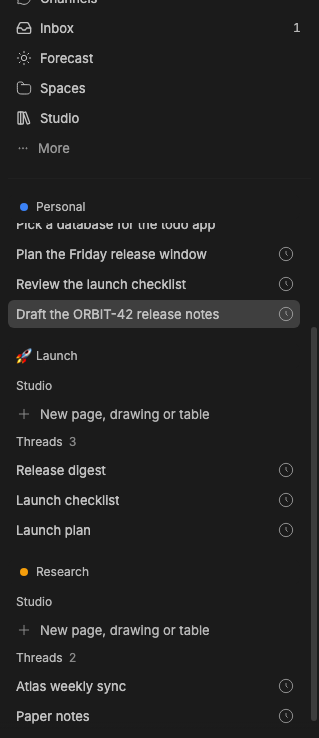
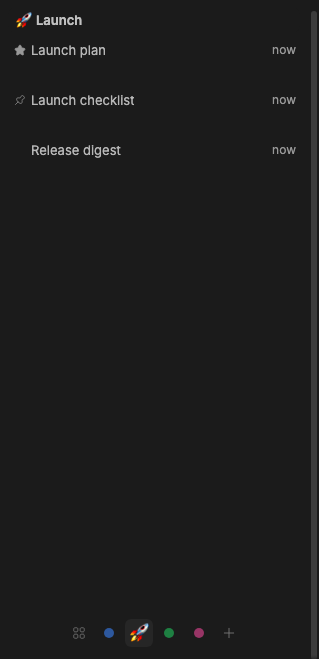
Sidebar captures: show the lead's star and a pin, recaptured
The By space fixture now makes Launch plan the lead and pins Launch
checklist, and checks they come first with their marks under no
headings. It opens Studio rather than a thread, since a thread shows its
own Space. The dialog capture opens New project from the Orbit project's
menu when there's no Threads section. Recaptured from a staged BB.

diff --git a/packages/bb-studio-sidebar/README.md b/packages/bb-studio-sidebar/README.md
@@ -44,8 +44,11 @@ section sits above Threads, and that it has no scroll area of its own.
 
 The By space capture creates two Spaces, Launch (🚀) and Research, and adds
 "Launch plan", "Launch checklist", and "Release digest" to Launch, and "Paper
-notes" and "Atlas weekly sync" to Research, then shows Launch. The live check
-verifies that only Launch shows, with its threads and emoji, that the switcher
+notes" and "Atlas weekly sync" to Research. It makes Launch plan the Space's
+lead and pins Launch checklist, then shows Launch. The live check verifies
+that only Launch shows, with its threads and emoji, that the lead comes first
+with a star and the pin next with a pin, under no Lead, Studio or Threads
+headings, that the switcher
 at the bottom has All first and a dot for each Space with Launch current, that
 every Launch row has its status dot, and that Studio's
 own Spaces section is gone while By space shows. No agent runs during this
@@ -60,7 +63,8 @@ and Launch's ⋯ menu, left open, now offers **Hide hidden threads**.
 
 ![New project folder dialog](assets/project-dialog.png)
 
-The dialog capture opens **New project** from the live **Threads ⋯** menu and
+The dialog capture opens **New project** from the live **Threads ⋯** menu (or,
+with no loose threads, the seeded Orbit project's ⋯ menu) and
 checks for the folder path, Browse, and Create project controls. No project
 is created during capture.
 
